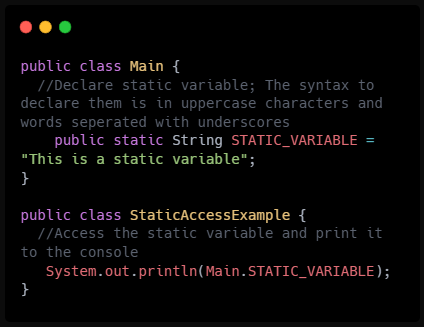
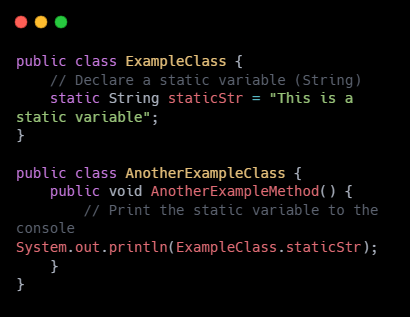
Changed image border look for code examples and added content to constants and variables topic

diff --git a/src/com/corejava/packages/home/Main.java b/src/com/corejava/packages/home/Main.java
@@ -40,3 +40,12 @@ public class Main {
  * public void ExampleMethod() { // Print the boolean variable to the console
  * System.out.println(isInstance); } }
  */
+
+/*
+ * public class ExampleClass { // Declare a static variable (String) static String staticStr =
+ * "This is a static variable"; }
+ * 
+ * public class AnotherExampleClass { public void AnotherExampleMethod() { // Print the static
+ * variable to the console System.out.println(ExampleClass.staticStr); } }
+ */
+
